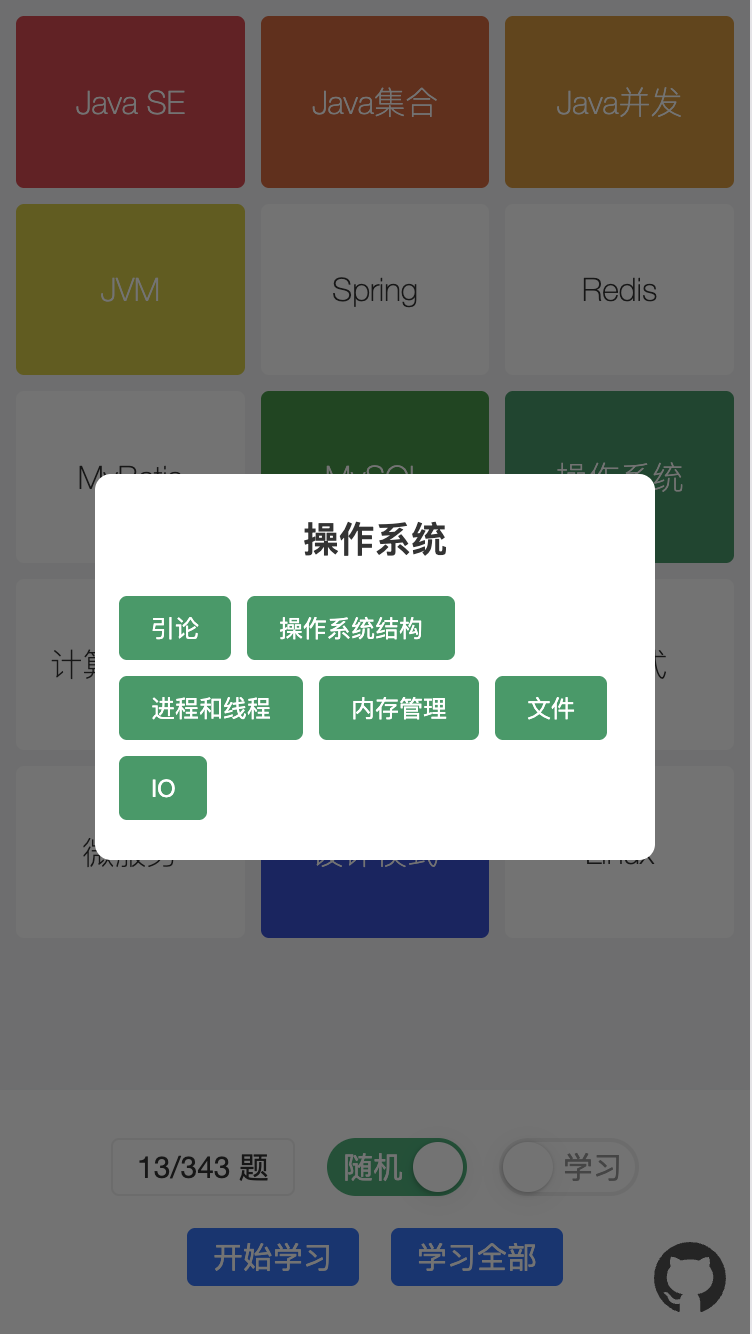
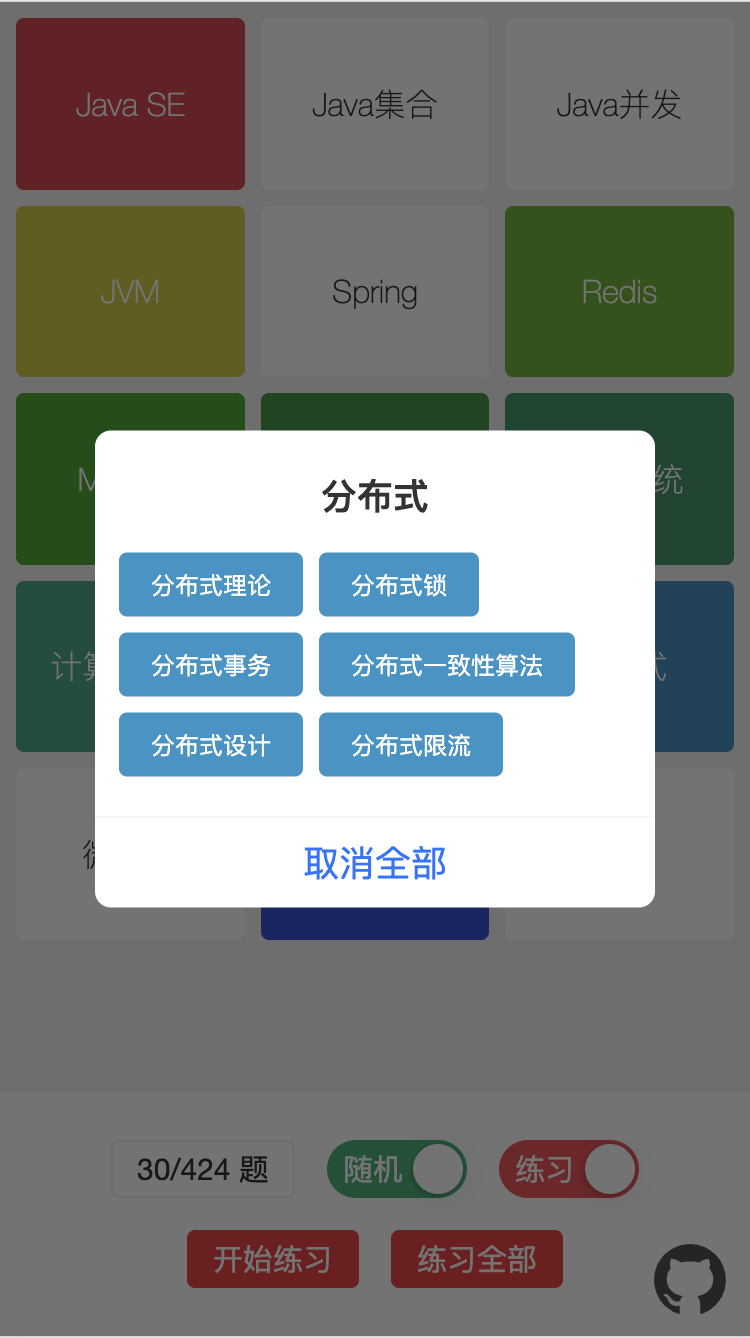
fix

diff --git a/src/components/PractiseSelector/index.tsx b/src/components/PractiseSelector/index.tsx
@@ -68,8 +68,11 @@ const PractiseSelector: React.FC<{
 						key={topicId}
 						style={{ backgroundColor: selected ? color : '' }}
 						onClick={() => {
-							handleTopicSelect(topicId)
-							!selected && setOpenIndex(index)
+							if (selected) {
+								setOpenIndex(index)
+							} else {
+								handleTopicSelect(topicId)
+							}
 						}}
 					>
 						{topic.topicName}
@@ -80,6 +83,12 @@ const PractiseSelector: React.FC<{
 				title={topics[openIndex]?.topicName}
 				onClose={() => setOpenIndex(-1)}
 				closeOnMaskClick={true}
+				actions={[[{
+					key: 'cancel', text: '取消全部', onClick: () => {
+						setOpenIndex(-1)
+						handleTopicSelect(topics[openIndex]?.id)
+					}
+				}]]}
 				visible={openIndex > -1}
 				content={<div className="flex flex-wrap pt-2 gap-2">
 					{openIndex > -1 && topics[openIndex]?.categories.map(category => {

diff --git a/src/pages/Home/index.tsx b/src/pages/Home/index.tsx
@@ -83,8 +83,8 @@ const InterviewQuestionBank = () => {
             <div className='flex-1 min-h-0 h-full'>
                 {loading ? <div className='flex justify-center items-center'>
                     <div className={`absolute inset-0 z-10 flex justify-center items-center text-sm lg:text-3xl`}>
-                    数据加载中<DotLoading />
-                </div>
+                        数据加载中<DotLoading />
+                    </div>
                 </div> : <PractiseSelector
                     topics={data.sort((a, b) => a.priority - b.priority)}
                     value={options || { selectedCategories: [], selectedTopics: [] }}

diff --git a/README.md b/README.md
@@ -1,4 +1,4 @@
-# Practice Mate 练习伴侣（八股文宝典）🧠📚
+# Practice Mate 练习伴侣 [Java记忆宝典]🧠📚
 ![favicon](src/favicon.svg)
 
 [![GitHub License](https://img.shields.io/badge/License-MIT-blue.svg)](LICENSE)
@@ -6,7 +6,8 @@
 [![GitHub Issues](https://img.shields.io/github/issues/shuangbofu/practice-mate)](https://github.com/shuangbofu/practice-mate/issues)
 [![Live Demo](https://img.shields.io/badge/Demo-在线使用-green)](http://fusb.top/practice-mate/)
 
-**练习伴侣** 是一个轻量级学习记忆工具，通过自定义题目数据，帮助你高效练习和巩固知识。支持随机出题、答案隐藏、题目导航等功能。
+
+**练习伴侣** 是一个轻量级学习记忆工具，通过自定义题目数据，帮助你高效练习和巩固知识。支持随机出题、答案隐藏、题目导航等功能。你可以通过导入 **[Java面试数据](http://fusb.top/data/java/result.json)**，快速生成专属的 **[Java宝典](http://fusb.top/practice-mate/)** 页面。项目编译后生成静态站点页面，无需部署服务即可直接使用。
 
 ---
 
@@ -57,7 +58,7 @@ yarn build
 ## 📚 数据配置
 ```bash
 # .env.development/.env.production配置默认数据
-# 默认java八股文数据
+# 默认java面试数据源
 VITE_DATA_URL = http://fusb.top/data/java/result.json
 ```
 > 数据来源：
